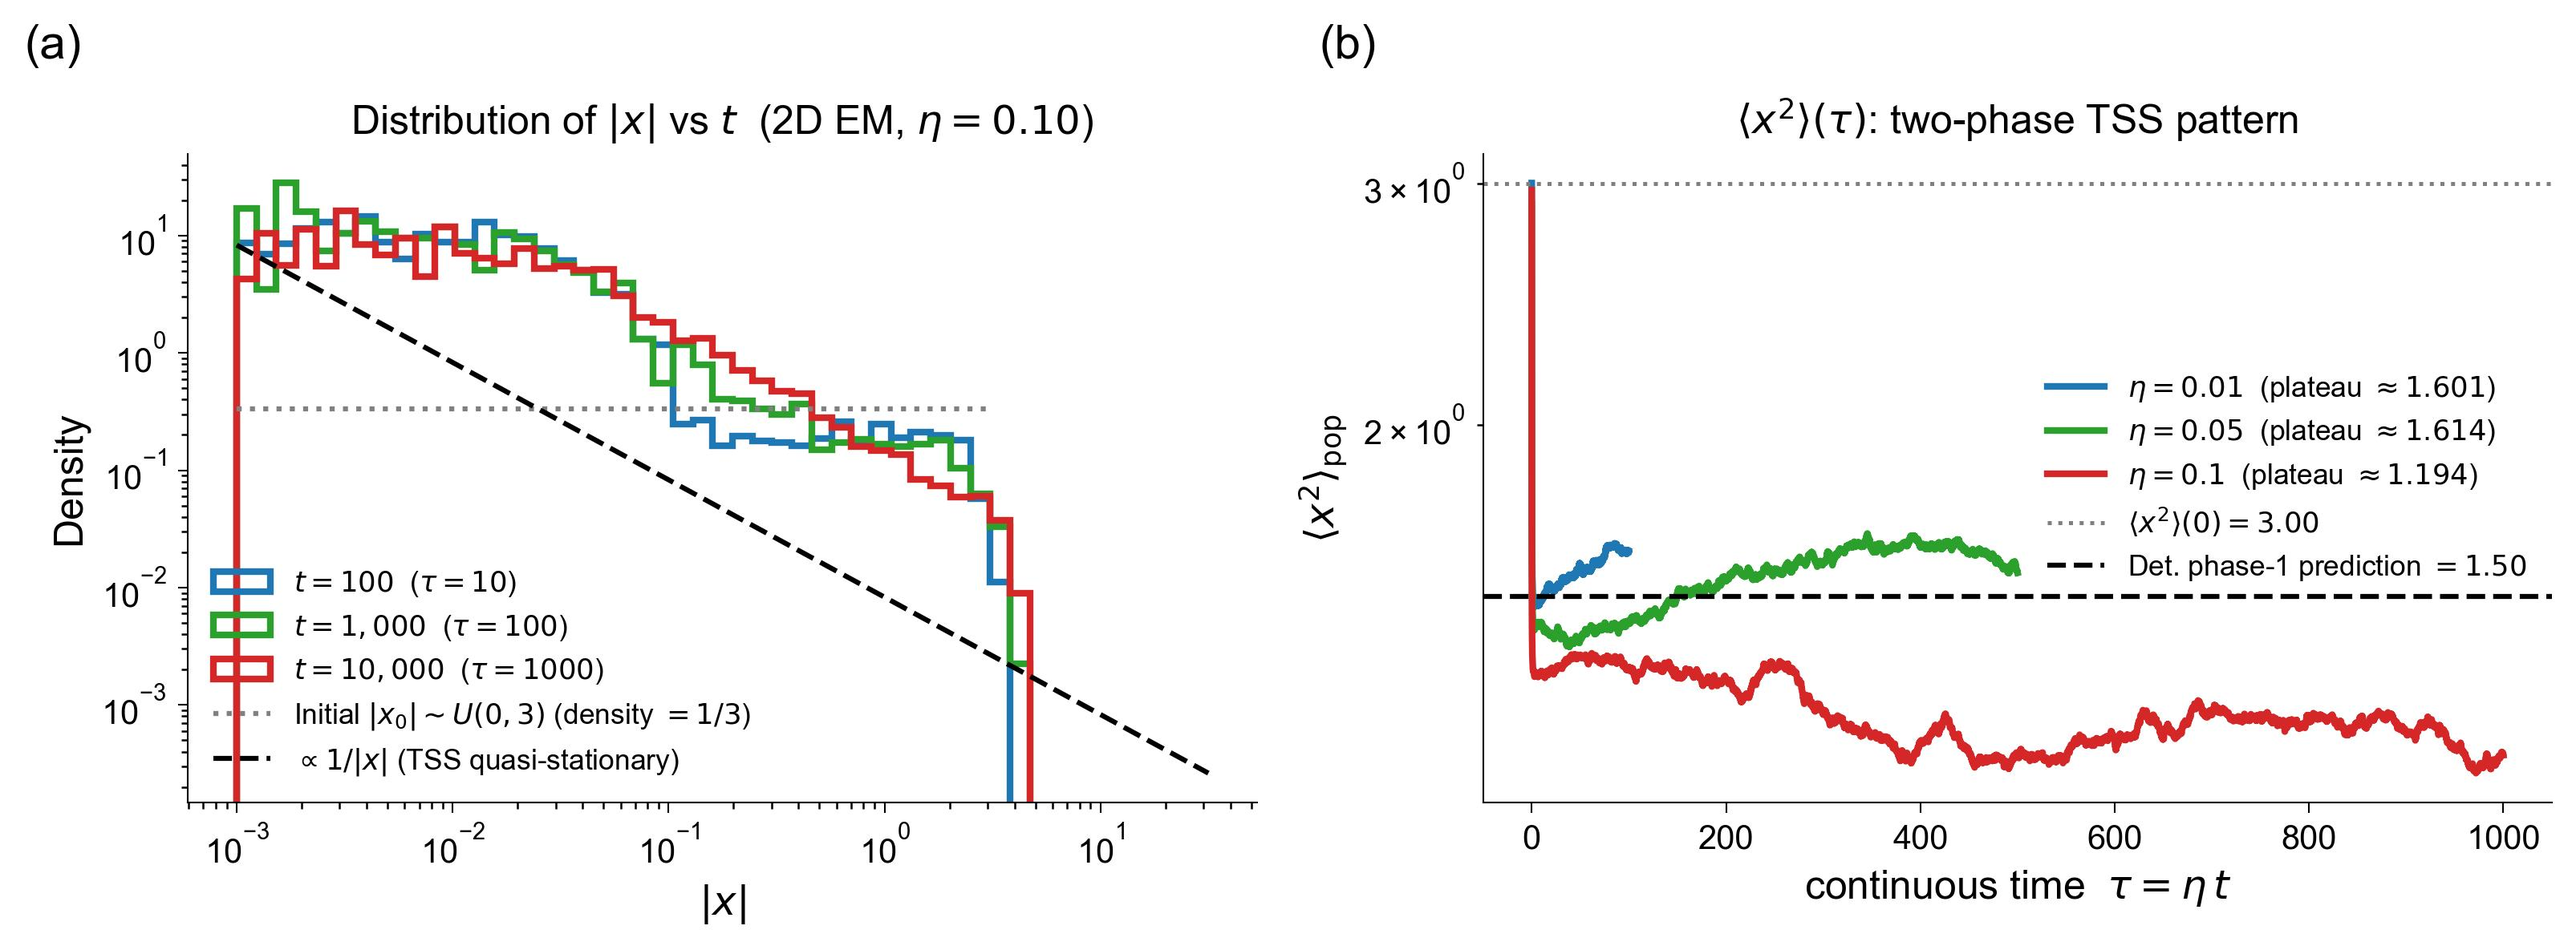
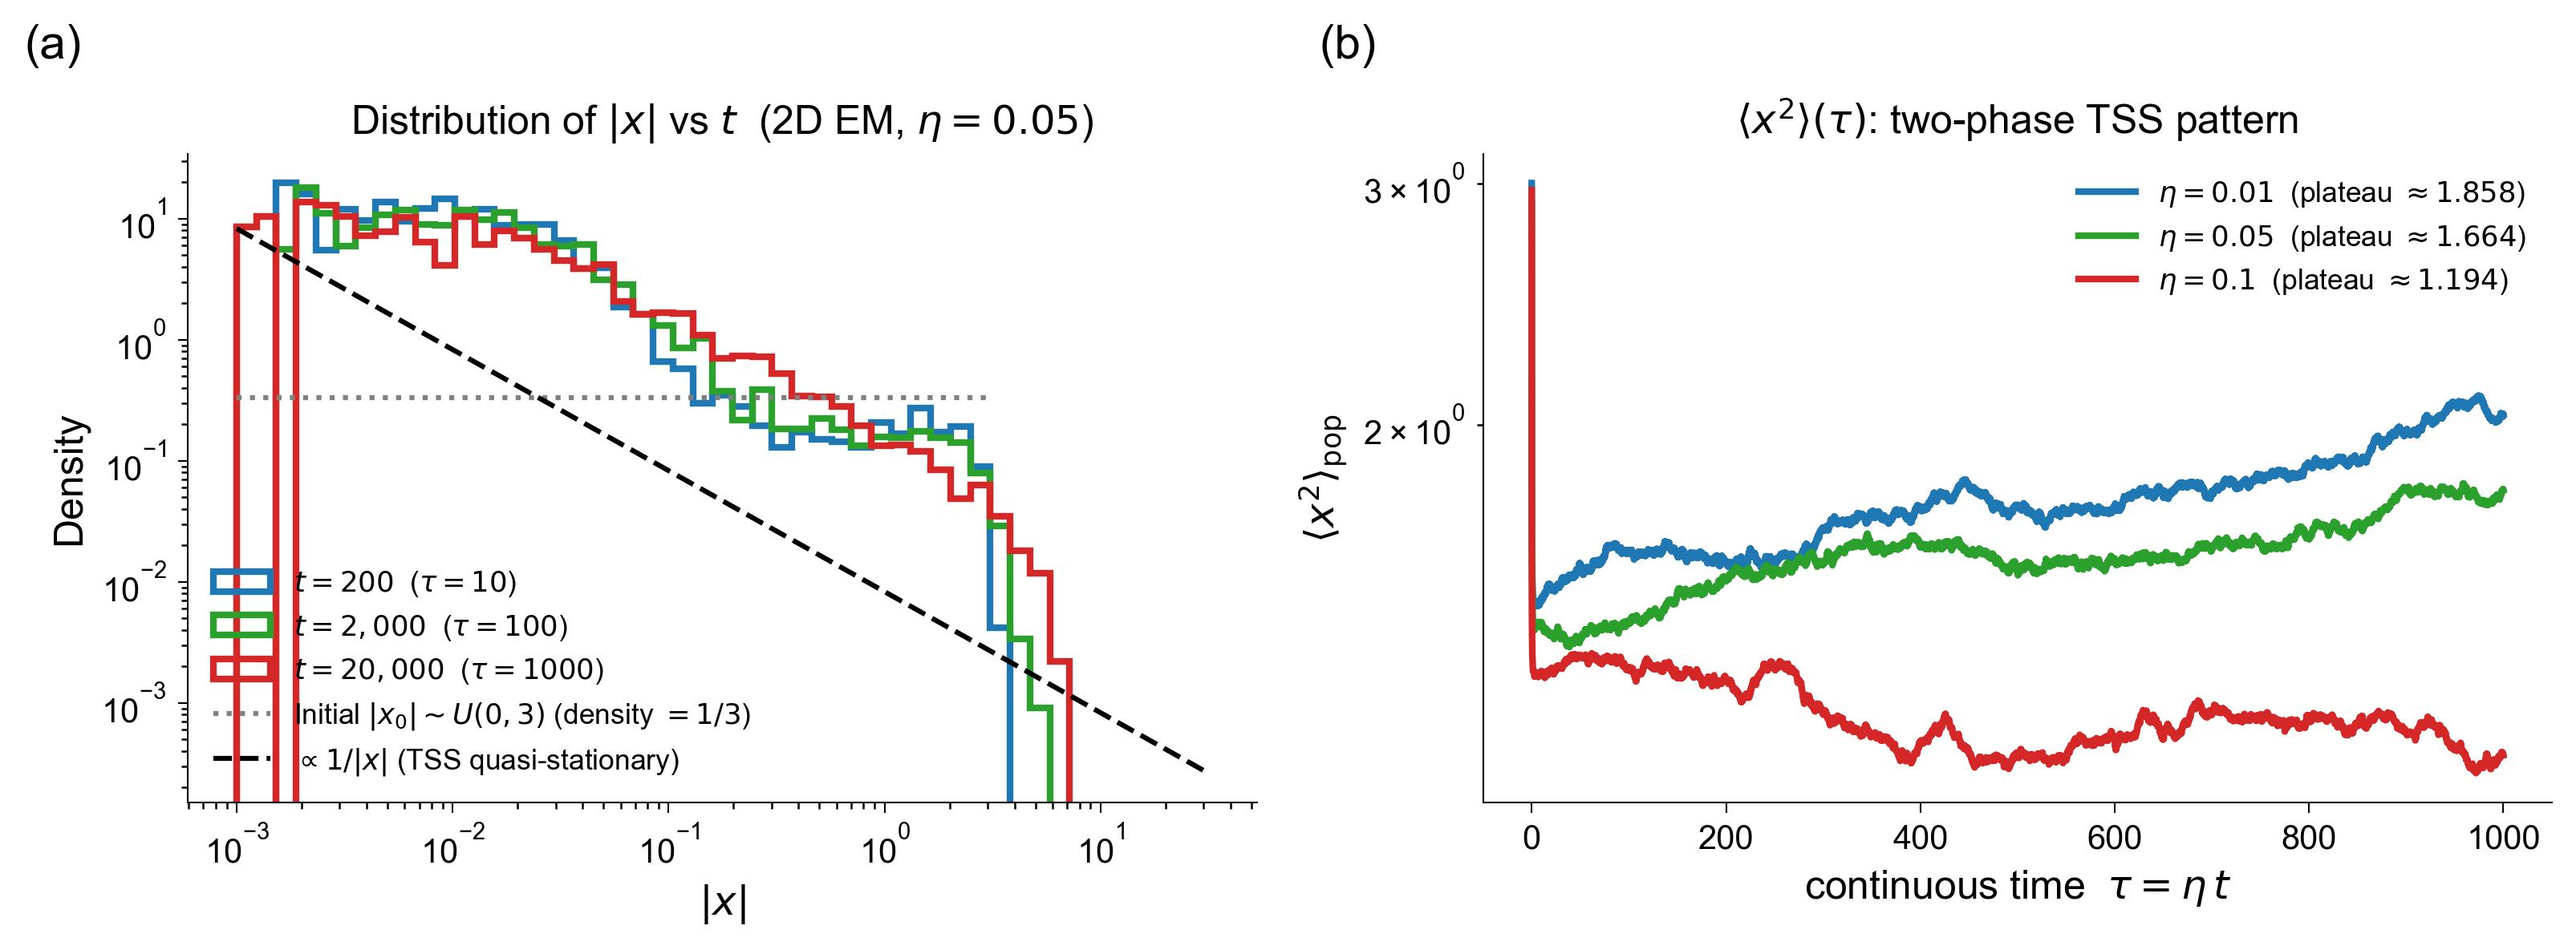
fig 2: common τ_end=1000 horizon, drop reference lines, panel (a) at η=0.05
- All three η ∈ {0.01, 0.05, 0.10} now run to the same continuous time
  τ_end = 1000 by setting n_iter = round(τ_end / η)
    η=0.01 → 100_000 iter
    η=0.05 →  20_000 iter
    η=0.10 →  10_000 iter
  Curves are on equal footing on the τ axis.
- Drop the analytic 1.50 reference and the ⟨x²⟩(0)=3 reference.
- Panel (a) snapshots switched from η=0.10 to η=0.05; snapshot iters
  at τ ∈ {10, 100, 1000} → t ∈ {200, 2000, 20000}.

Empirical plateaus (mean of ⟨x²⟩ over t > n_iter/2):
  η=0.01: 1.858 ± 0.111   (rises slowly — not a true plateau over this
                           horizon; same heavy-tail-kick artifact as the
                           earlier 2D EM η=0.01 result)
  η=0.05: 1.664 ± 0.076
  η=0.10: 1.194 ± 0.033

diff --git a/validate_langevin_note.py b/validate_langevin_note.py
@@ -421,70 +421,60 @@ def figure_2_singular_landscape():
     SIGMA_L = 0.05
     INIT_BOUND = 3.0
     POP = 1000
-    ITER = 10_000
+    T_CONTINUOUS = 1000.0
     eta_values = (0.01, 0.05, 0.10)
 
-    print(f"  σ = {SIGMA_L}, init_bound = {INIT_BOUND}, pop = {POP}, iter = {ITER}")
-    print(f"  η values = {eta_values}")
-
-    # Deterministic phase-1 prediction: each walker preserves x²−y² and
-    # ends at either (sqrt(max(x₀²−y₀², 0)), 0) or (0, sqrt(max(y₀²−x₀², 0))).
-    # ⟨x²⟩_∞ = E[max(x₀² − y₀², 0)] = ½·E[|x₀² − y₀²|]. For x₀, y₀ ~ U(-3, 3)
-    # this evaluates analytically to 3/2 (∫∫_{0≤x,y≤3} |x²−y²| dxdy = 27).
-    det_plateau = 1.5
-    naive_plateau = INIT_BOUND**2 / 3.0  # ⟨x²⟩(0) = 3 for U(-3, 3)
-    print(f"  ⟨x²⟩(0)              = {naive_plateau:.4f}  (naive baseline)")
-    print(f"  Det. phase-1 plateau = {det_plateau:.4f}  (½·E[|x₀²-y₀²|])")
+    print(f"  σ = {SIGMA_L}, init_bound = {INIT_BOUND}, pop = {POP}")
+    print(f"  Common horizon: τ_end = {T_CONTINUOUS}")
+    print(f"  η values = {eta_values}  →  num_iterations = τ_end/η each")
 
     results = {}
     for i, eta in enumerate(eta_values):
+        n_iter = int(round(T_CONTINUOUS / eta))
         key = jax.random.PRNGKey(100 + i)
+        # 101 evenly-spaced snapshots → indices [0, n_iter/100, 2·n_iter/100, …,
+        # n_iter]. Covers τ=10, 100, 1000 exactly when n_iter is a multiple of
+        # 100, which is true for all our η values.
         out = diagnose_langevin_tss_validity(
             key=key,
-            num_iterations=ITER,
+            num_iterations=n_iter,
             population_size=POP,
             mutation_std=SIGMA_L,
             learning_rate=eta,
             grad_func=grad_func,
             init_bound=INIT_BOUND,
-            num_snapshots=101,  # every 100 iters → covers 100, 1000, 10000 exactly
+            num_snapshots=101,
         )
-        burn = ITER // 2
+        burn = n_iter // 2
         plateau_emp = float(np.mean(out['stats']['mean_x_sq'][burn:]))
         plateau_std = float(np.std(out['stats']['mean_x_sq'][burn:]))
-        results[eta] = {'out': out, 'plateau': plateau_emp, 'plateau_std': plateau_std}
-        print(f"\n  [η={eta}]  ⟨x²⟩(0)={out['stats']['mean_x_sq'][0]:.4f}  "
-              f"⟨x²⟩(T)={out['stats']['mean_x_sq'][-1]:.4f}  "
+        results[eta] = {'out': out, 'plateau': plateau_emp, 'plateau_std': plateau_std,
+                        'n_iter': n_iter}
+        print(f"\n  [η={eta}, n_iter={n_iter}]  ⟨x²⟩(0)={out['stats']['mean_x_sq'][0]:.4f}  "
+              f"⟨x²⟩(τ_end)={out['stats']['mean_x_sq'][-1]:.4f}  "
               f"plateau (mean of t>T/2) = {plateau_emp:.4f} ± {plateau_std:.4f}")
 
     # ============ Plot ============
     fig, axes = create_figure(n_cols=2, width_per_panel=5.4, height_per_panel=4.2)
 
-    # ---- (a) |x| histograms at multiple t from the η=0.10 run ----
+    # ---- (a) |x| histograms at multiple t from the η=0.05 run ----
+    eta_a = 0.05
     ax = axes[0]
-    out_a = results[0.10]['out']
-    snapshot_steps = (100, 1000, 10000)  # in EM-step units; τ = η·t
+    out_a = results[eta_a]['out']
+    n_iter_a = results[eta_a]['n_iter']  # 20_000 for η=0.05, τ_end=1000
+    # Snapshots at τ = 10, 100, 1000 → iterations 200, 2000, 20000.
+    snapshot_steps = (int(10 / eta_a), int(100 / eta_a), n_iter_a)
     snapshot_colors = ['#1f77b4', '#2ca02c', '#d62728']
     log_bins = np.logspace(-3, 1.5, 50)
     for t, color in zip(snapshot_steps, snapshot_colors):
-        pop = out_a['snapshots'].get(t)
-        if pop is None:
-            # diagnose_langevin_tss_validity samples num_snapshots evenly; we
-            # asked for 4 → steps 0, ITER//3, 2·ITER//3, ITER. Fall back to
-            # closest available snapshot index.
-            idx_avail = sorted(out_a['snapshots'].keys())
-            nearest = min(idx_avail, key=lambda i: abs(i - t))
-            pop = out_a['snapshots'][nearest]
-            t_actual = nearest
-        else:
-            t_actual = t
+        pop = out_a['snapshots'][t]
         abs_x = np.abs(pop[:, 0])
         abs_x = abs_x[abs_x > 0]
-        tau_label = t_actual * 0.10
+        tau_label = t * eta_a
         ax.hist(abs_x, bins=log_bins, density=True, histtype='step',
                 color=color, lw=2.0,
-                label=rf'$t={t_actual:,}$  ($\tau={tau_label:.0f}$)')
-    # Initial U(0, 3) density reference
+                label=rf'$t={t:,}$  ($\tau={tau_label:.0f}$)')
+    # Initial U(0, 3) density reference (initial pop is U(-3, 3) per axis)
     ax.plot([1e-3, 3.0], [1.0/3.0, 1.0/3.0], color='gray', lw=1.5, ls=':',
             label=r'Initial $|x_0|\sim U(0,3)$ (density $=1/3$)')
     # P*(x) ∝ 1/|x| slope reference
@@ -496,11 +486,11 @@ def figure_2_singular_landscape():
     ax.set_yscale('log')
     ax.set_xlabel(r'$|x|$')
     ax.set_ylabel('Density')
-    ax.set_title(r'Distribution of $|x|$ vs $t$  (2D EM, $\eta=0.10$)')
+    ax.set_title(rf'Distribution of $|x|$ vs $t$  (2D EM, $\eta={eta_a}$)')
     ax.legend(loc='lower left', fontsize=8.5)
     style_axis(ax)
 
-    # ---- (b) ⟨x²⟩_pop(τ) for η ∈ {0.01, 0.05, 0.10} ----
+    # ---- (b) ⟨x²⟩_pop(τ) for η ∈ {0.01, 0.05, 0.10}; all curves to τ_end ----
     ax = axes[1]
     color_map = {0.01: '#1f77b4', 0.05: '#2ca02c', 0.10: '#d62728'}
     for eta in eta_values:
@@ -509,11 +499,6 @@ def figure_2_singular_landscape():
         m = out['stats']['mean_x_sq']
         ax.plot(tau, m, color=color_map[eta], lw=2.0,
                 label=rf'$\eta = {eta}$  (plateau $\approx {results[eta]["plateau"]:.3f}$)')
-
-    ax.axhline(naive_plateau, color='gray', lw=1.2, ls=':',
-               label=rf'$\langle x^{{2}}\rangle(0) = {naive_plateau:.2f}$')
-    ax.axhline(det_plateau, color='black', lw=1.5, ls='--',
-               label=rf'Det. phase-1 prediction $= {det_plateau:.2f}$')
 
     ax.set_xlabel(r'continuous time  $\tau = \eta\,t$')
     ax.set_ylabel(r'$\langle x^{2} \rangle_{\mathrm{pop}}$')
